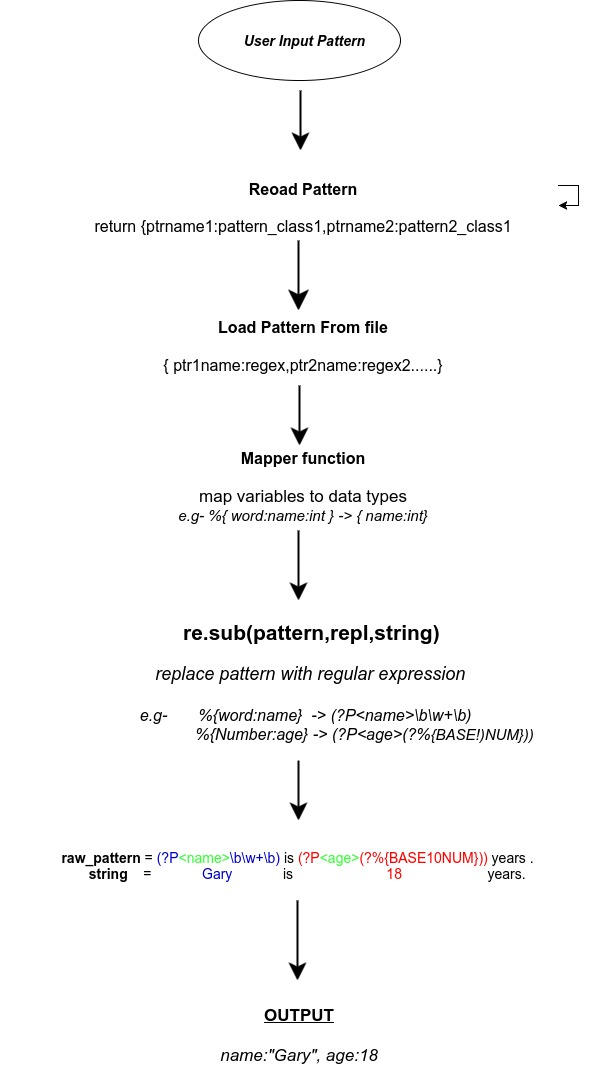
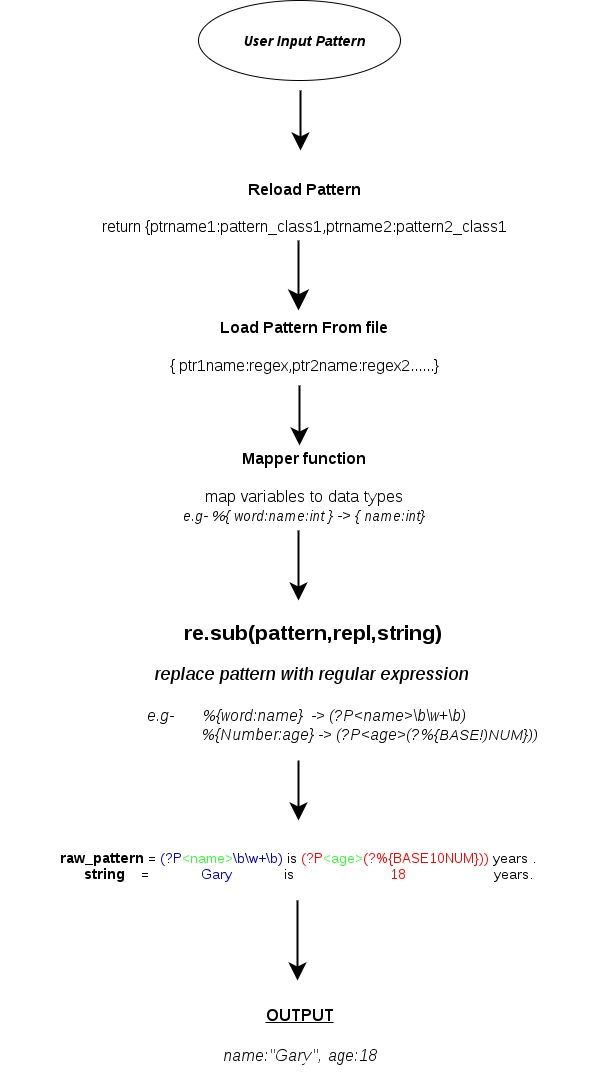
added workflow link and updated README file
Updated workflow image

diff --git a/docs/workflow.md b/docs/workflow.md
@@ -2,5 +2,4 @@
 
 ![Workflow](../images/pygrok_workflow.jpg)
 
-
-To edit the workflow [Click here](https://drive.google.com/open?id=0Bzip6-QFi3R_aE9NS2tZdFc5LUk) and open it with **draw.io**
+To edit the workflow [Click here](https://goo.gl/4E9YGP) and open it with **draw.io**

diff --git a/README.md b/README.md
@@ -1,1 +1,2 @@
 # GrokDebugger
++![Screenshot](images/pygrok_workflow.jpg)
